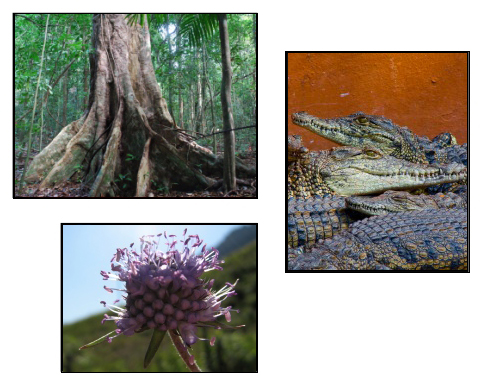
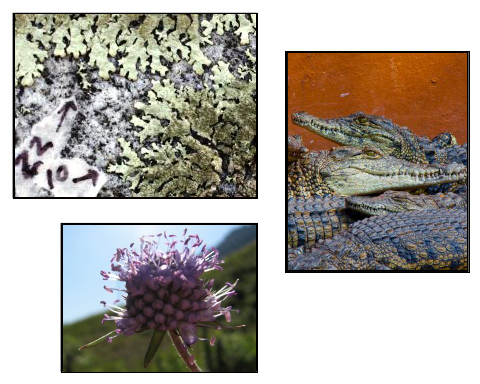
updating website: lichens and credits
git-svn-id: svn://svn.r-forge.r-project.org/svnroot/ipmpack@383 edb9625f-4e0d-4859-8d74-9fd3b1da38cb

Changed region(s): [[0.0312, 0.0312, 0.5312, 0.5312]]

diff --git a/www/index.php b/www/index.php
@@ -94,7 +94,7 @@ $themeroot='http://r-forge.r-project.org/themes/rforge/';
                   <td class="main">
                     <p class="parag"><b>IPMpack</b> is an R package (R Development Core Team 2011) that allows users to build and analyse Integral Projection Models. An IPM is a demographic tool to explore the dynamics of populations where individuals' fates depend on state variables that are continuous (e.g. weight, diameter at breast height, height, limb length, rosette diameter...) or quasi-continuous (number of leaves, age, number of reproductive structures) and may be a mixture of discrete (e.g. seedbank) and continuous. IPMs track the distribution of individuals $n$ across these state variables between census times (e.g., year $t$ and year $t+1$) by projecting from models that define the underlying vital rates (e.g., survival, growth, reproduction) as a function of the (quasi-)continuous state variables. Version 1.0 of the package is now available on CRAN /  R-Forge. For those who wish to try it, it can be installed by opening the R console and typing: <br></p>
 										<p><code>install.packages("IPMpack", repos = "http://R-Forge.R-project.org", type = "source")</code>
-<br></p>
+					<p><br></p>
 
                     <a href="#top" class="totop">Back to top</a>
                   </td>
@@ -142,7 +142,7 @@ row represents one measurement in the population:</p>
                     <p style="text-align:justify;line-height:1.75;font-size:18px">Future versions will include:</p>
                     <ul style="text-align:justify;line-height:1.75;font-size:18px">
                       <li>Clonality IPMs.</li>
-                      <li>Multiple continuous state variables (e.g. size × age).</li>
+                      <li>Multiple continuous state variables in the same IPM.</li>
                       <li>etc. (suggestions are very welcome)</li>
                     </ul>
                   </td>
@@ -165,13 +165,16 @@ row represents one measurement in the population:</p>
 					<p class="Refs">Rees M & Rose KE (2002) <b>Evolution of flowering strategies in <i>Oenothera glazioviana</i>: an integral projection model approach.</b> <i>Proc. Roy. Soc. B.</i> 269:1509-1515 <a href="http://rspb.royalsocietypublishing.org/content/269/1499/1509.full.pdf" rel="nofollow" style="color:#84002E" target="_blank">pdf</a>.<br><br></p>
                     <p class="Refs">Tuljapurkar S (1990) <b>Population Dynamics in Variable Environments</b>. Springer, Berlin, Germany.<br><br></p>
 					<p class="Refs">Zuidema PA, Jongejans E, Chien PD, During HJ & Schieving F (2010) <b>Integral Projection Models for trees: a new parameterization method and a validation of model output.</b> <i>Journal of Ecology</i> 98:345-355 <a href="http://dx.doi.org/10.1111/j.1365-2745.2009.01626.x" rel="nofollow" style="color:#84002E" target="_blank">doi</a>
+                    <p><br></p>
                     <a href="#top" class="totop">Back to top</a>
                   </td>
                   <td style="vertical-align:top;padding:40px" width="420px">
 				    Papers using IPMpack (please contact us if you want your paper to be included in this list):
 					<p><i>in progress</i></p>
-					<br><br><br><br>
+					<p><br><br><br></p>
 					<p>A list of all known IPM papers can be downloaded here: <a href="IPMpublications.xlsx">IPMpublications</a>.
+					<p><br><br><br></p>
+					<p>Photo credits: <i>Xanthoparmelia</i> lichens by Ann Pringle, crocs by Owen Jones, <i>Succisa pratensis</i> by Lidewij Keser.
                   </td>
                 </tr>
               </tbody>
